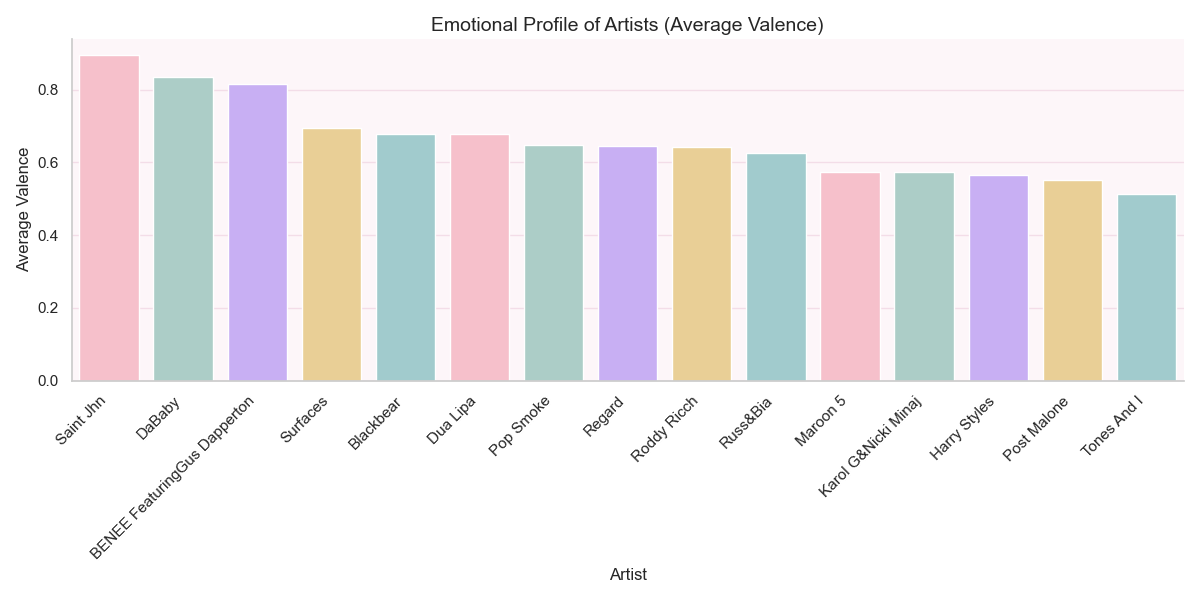
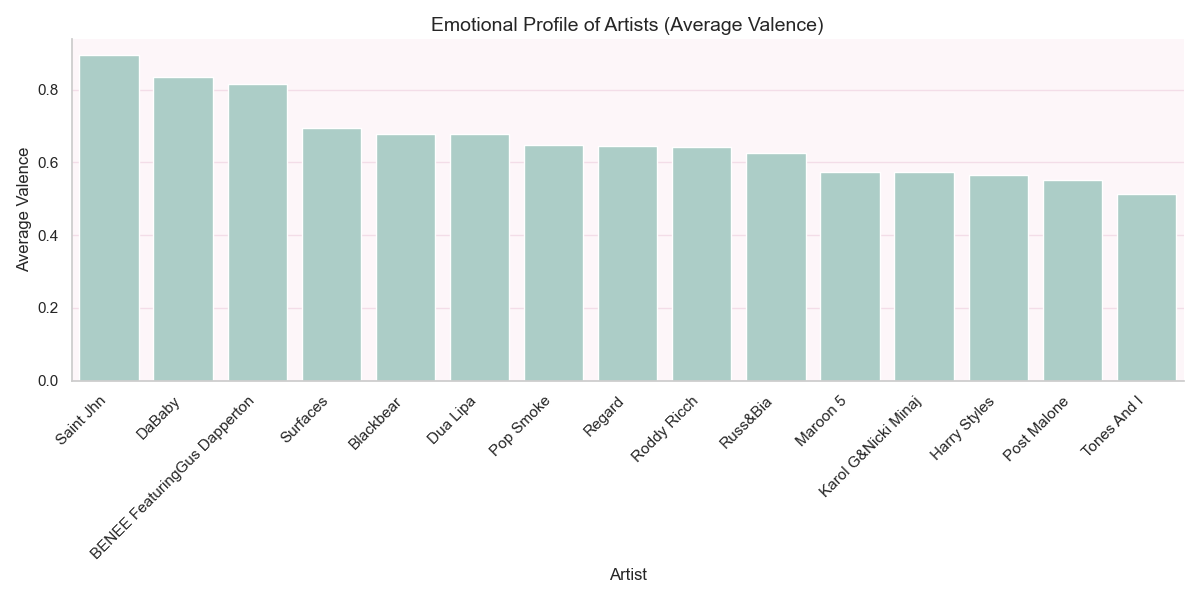
updated visualizaiton.py and changed the pallete in figure 4 to one color

diff --git a/data/src/visualizations.py b/data/src/visualizations.py
@@ -366,7 +366,7 @@ def plot_artist_emotional_profile():
         data=df,
         x="artist_name",
         y="avg_valence",
-        palette=PASTEL_COLORS,
+        color=PASTEL_COLORS[1],
         edgecolor="white",
     )
     plt.title("Emotional Profile of Artists (Average Valence)", fontsize=14)
